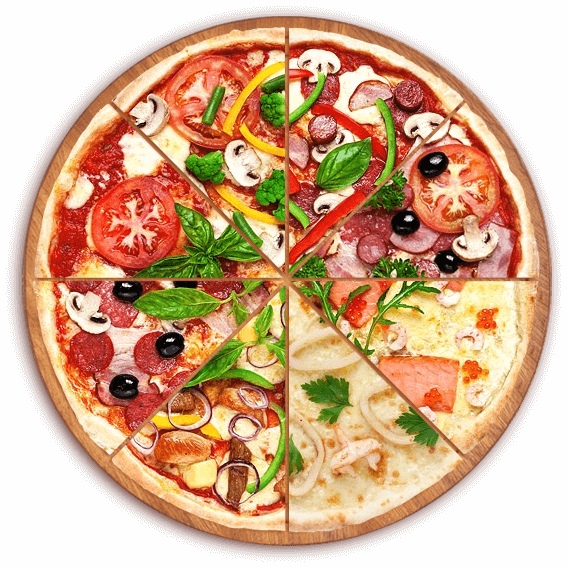
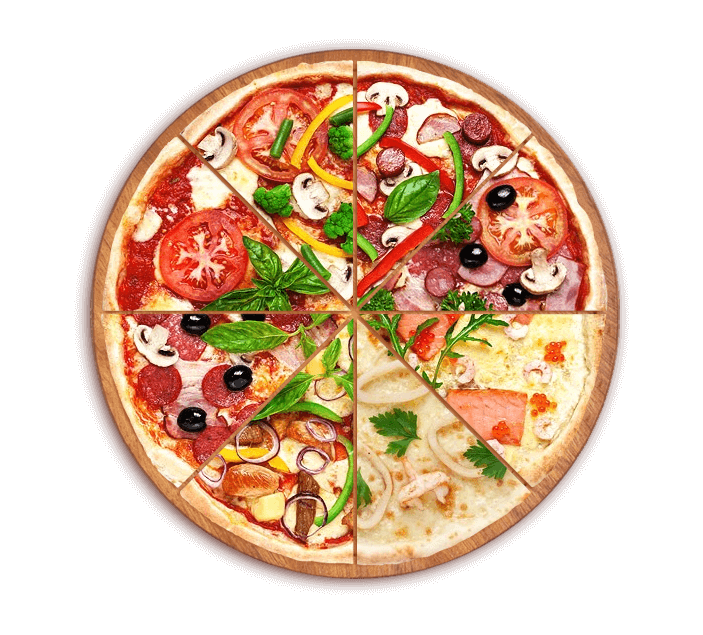
change first photo

diff --git a/index.html b/index.html
@@ -93,13 +93,13 @@
 <section class="home" id="home">
 
     <div class="content" data-aos="fade-right">
-        <h3>We belive good food offer great smile</h3>
-        <p>Lorem ipsum dolor sit amet consectetur adipisicing elit. Iure, odit distinctio error corporis adipisci molestias eveniet optio quaerat tempore asperiores!</p>
-        <a href="#"><button class="btn">get started</button></a>
+        <h3>Um pouco de tudo!</h3>
+        <p>Nós acreditamos que uma boa variedade e qualidade de comida é sempre responsável por um belo sorriso no rosto!</p>
+        <a href="#lanchonete"><button class="btn">Nosso Menu</button></a>
     </div>
 
     <div class="image" data-aos="fade-up">
-        <img src="images/home-img.png" alt="">
+        <img src="images/pizzaIcon.png" alt="">
     </div>
 
 </section>
